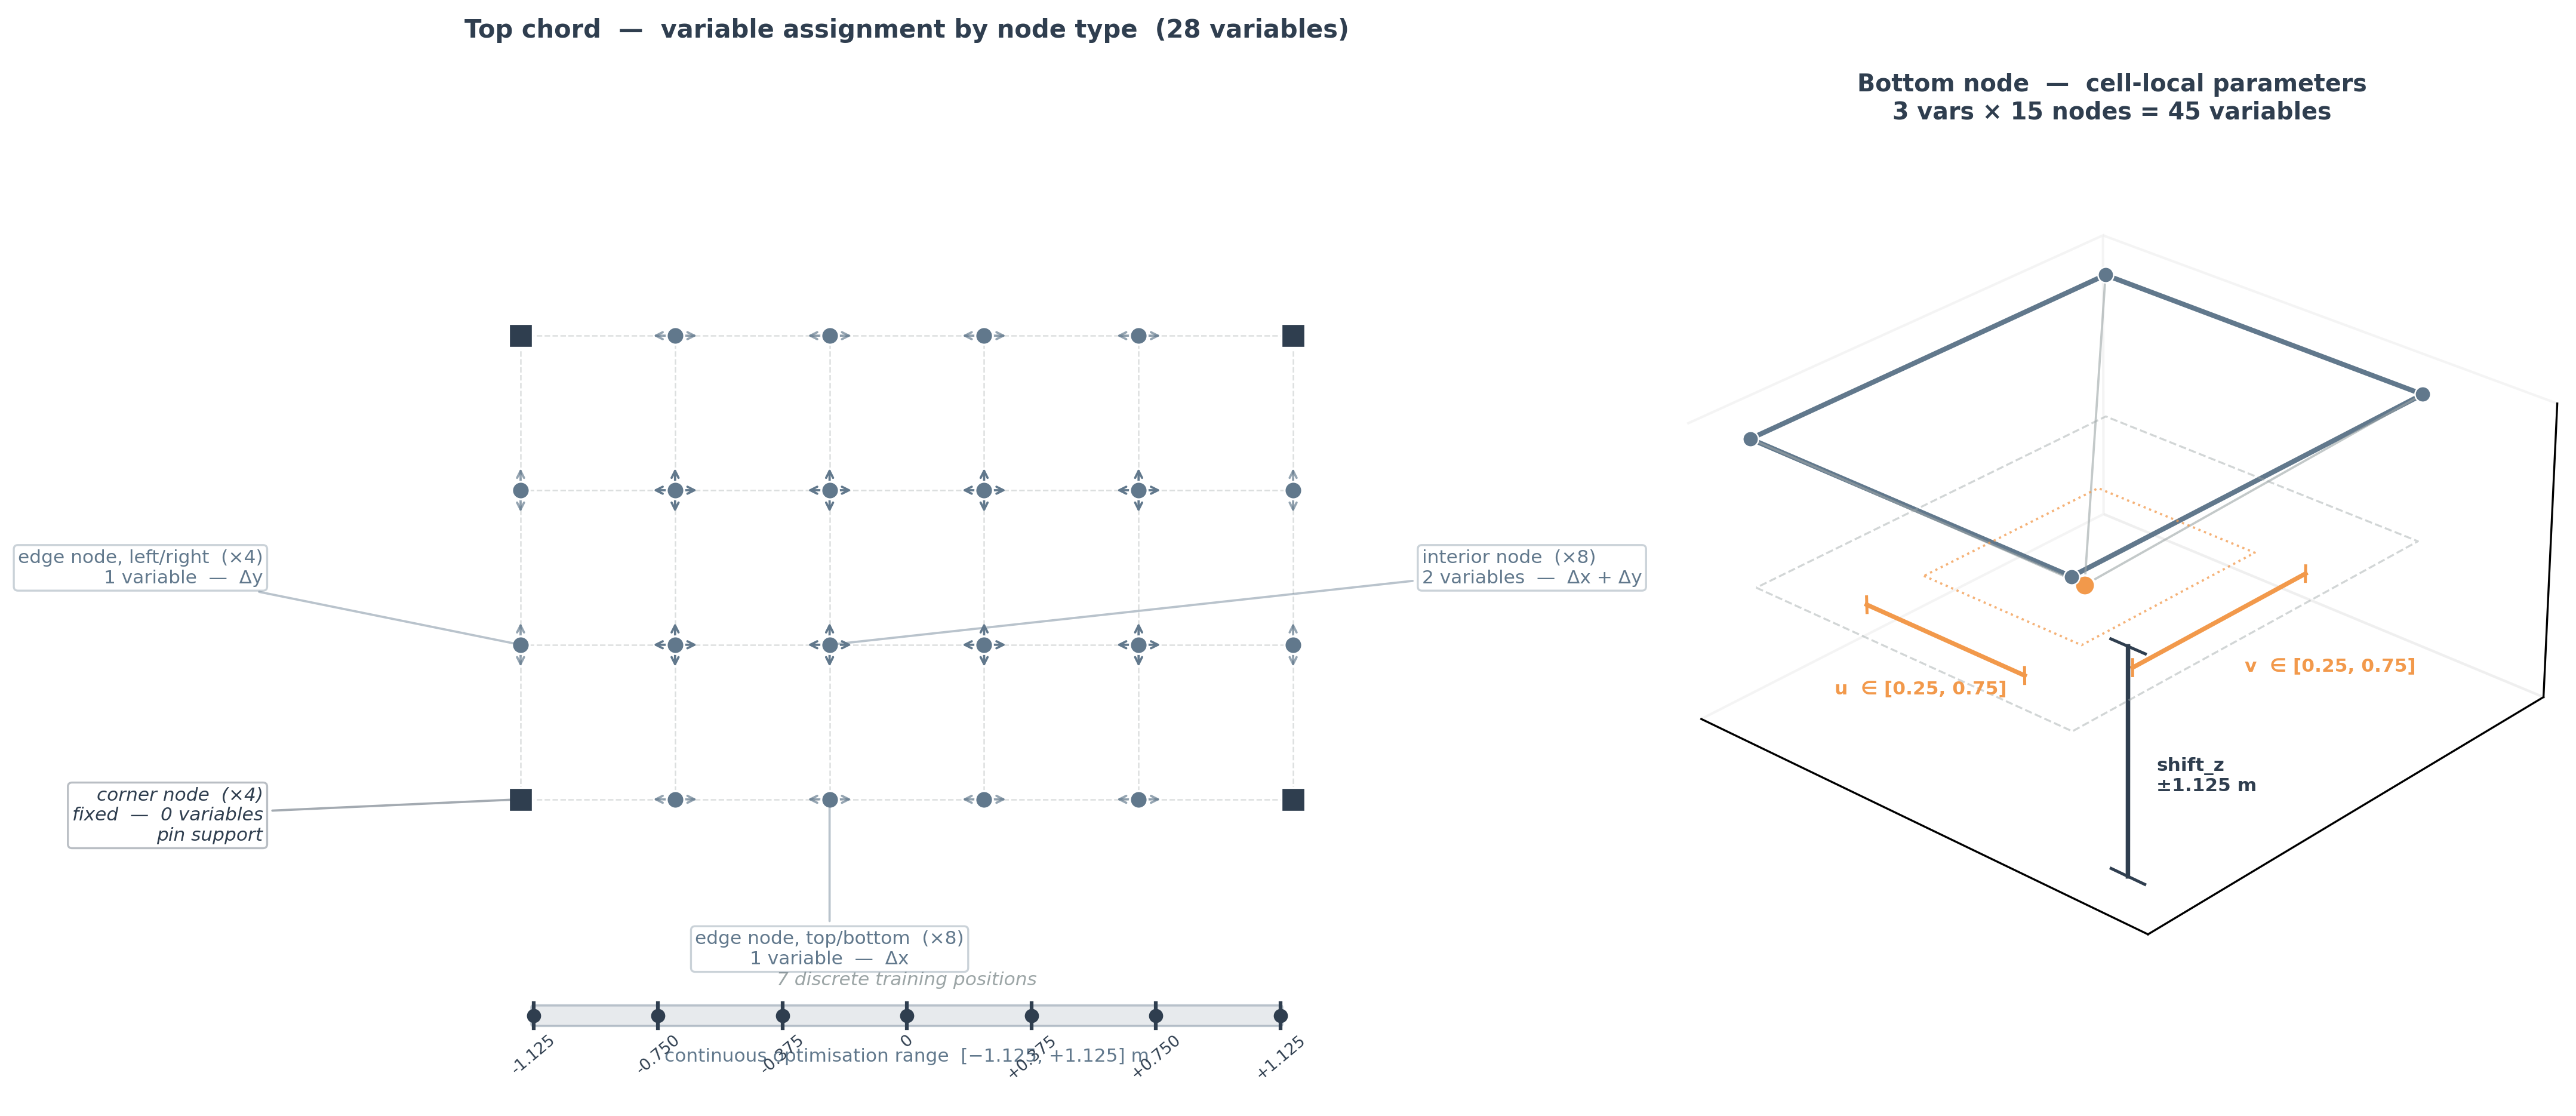
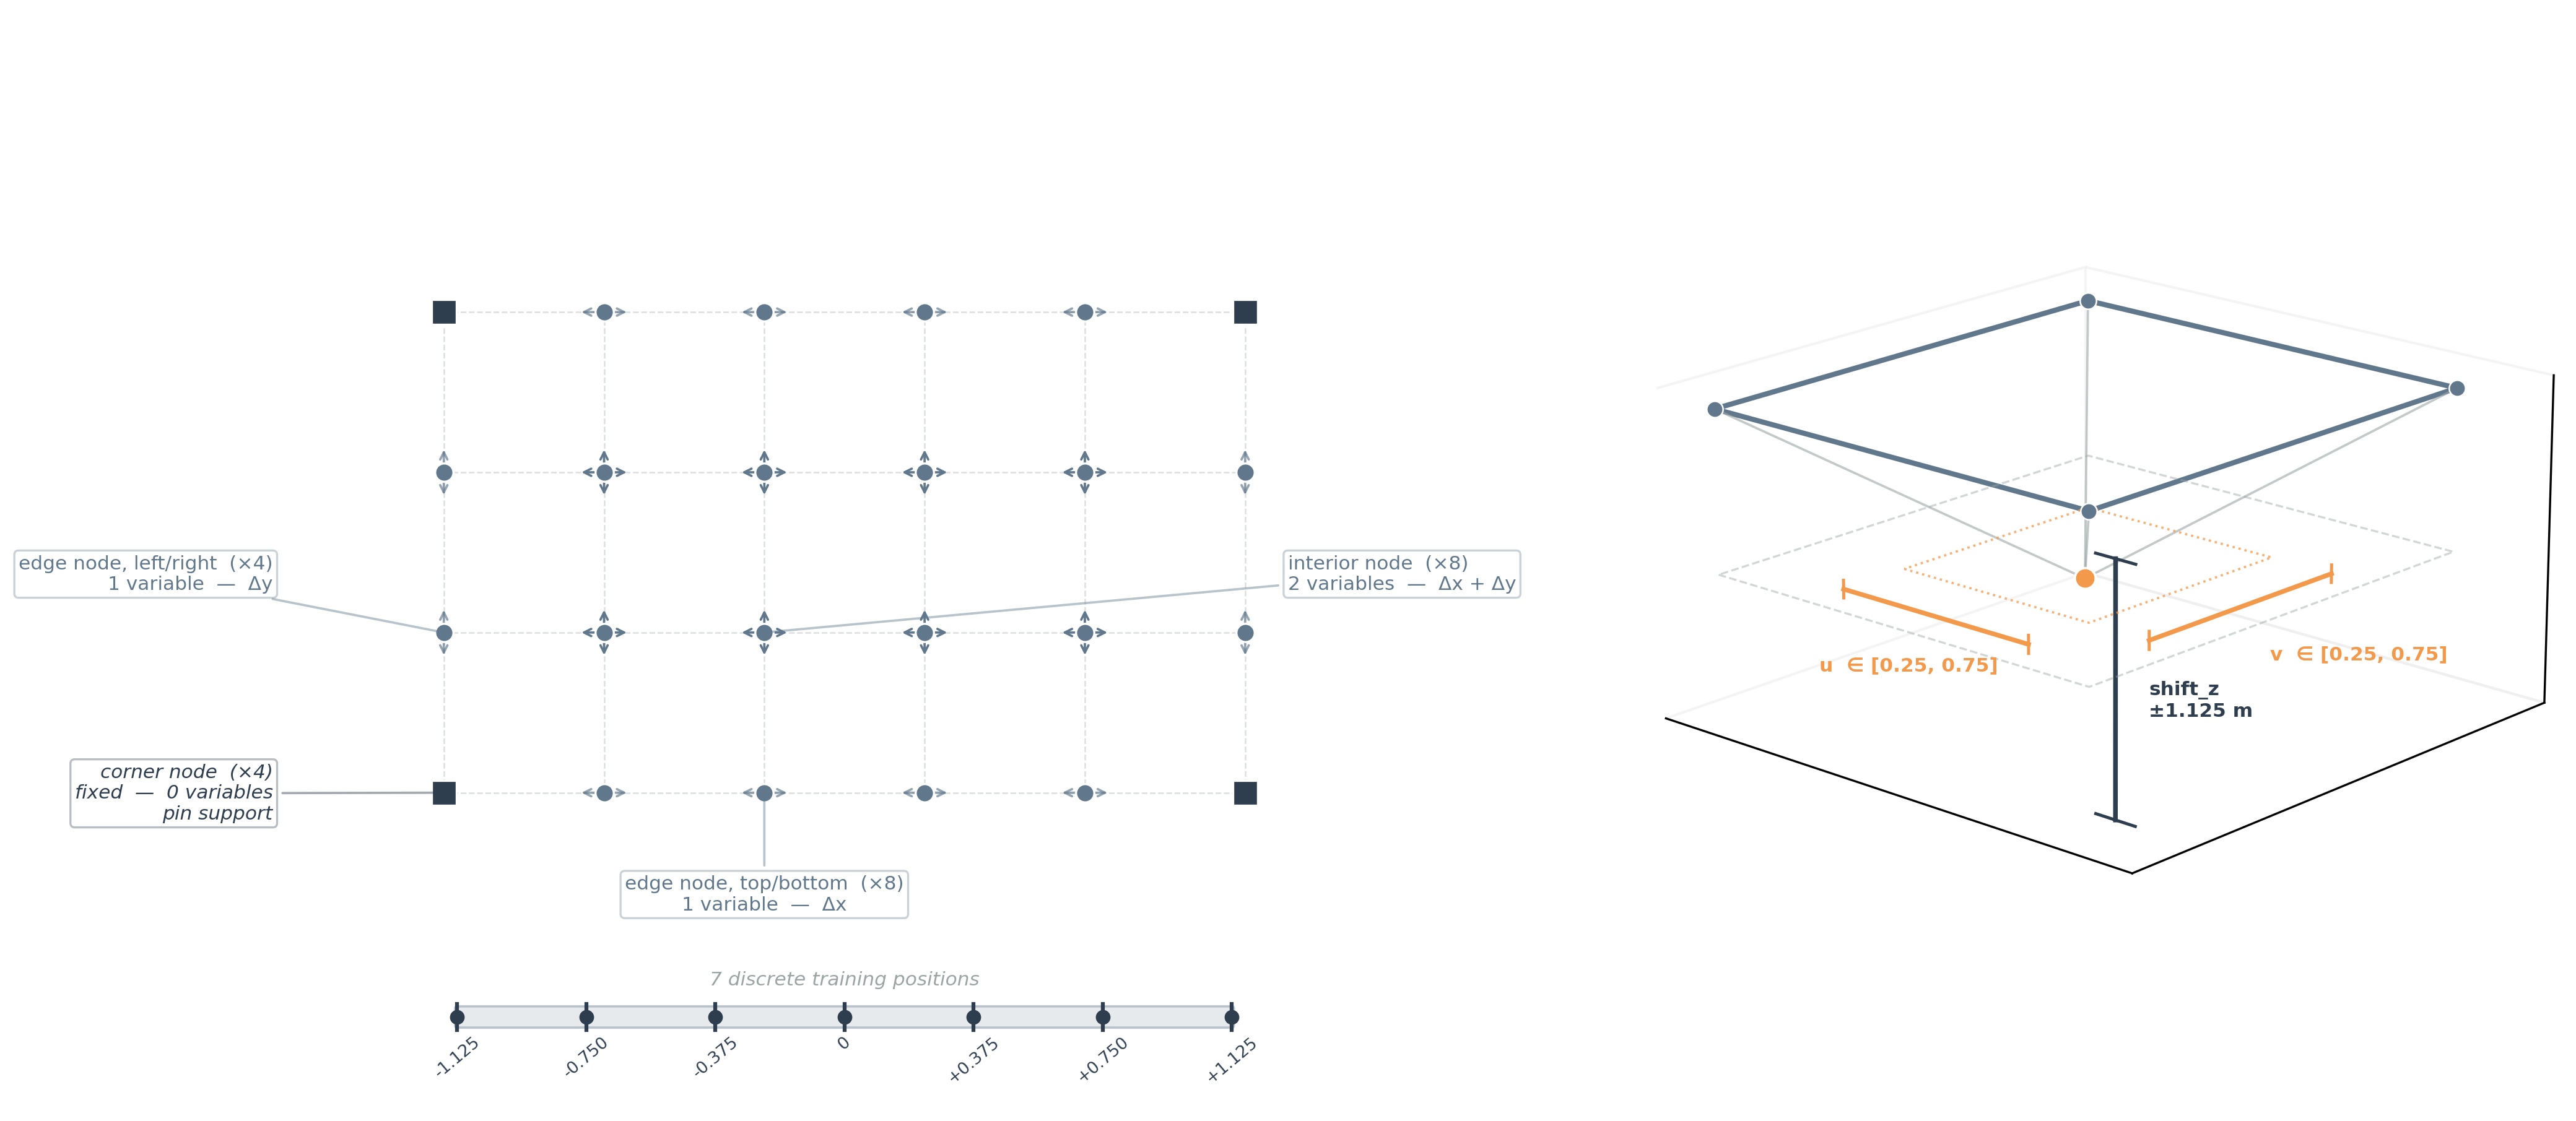
herres

diff --git a/figures/gen_gnn_figures.py b/figures/gen_gnn_figures.py
@@ -1,0 +1,156 @@
+"""Generate GNN feature-table and normalisation-pipeline figures (ch 4.7)."""
+import sys
+import matplotlib
+matplotlib.use("Agg")
+import matplotlib.pyplot as plt
+import matplotlib.patches as mpatches
+from pathlib import Path
+
+ROOT_DIR = Path(__file__).resolve().parent.parent
+if str(ROOT_DIR) not in sys.path:
+    sys.path.append(str(ROOT_DIR))
+
+from config import FIG_PDF_DIR, FIG_PNG_DIR, PLOT_COLORS
+
+matplotlib.rcParams.update({
+    "font.family":      "sans-serif",
+    "font.sans-serif":  ["Arial", "Helvetica Neue", "DejaVu Sans"],
+    "font.size":        8.5,
+    "mathtext.fontset": "dejavusans",
+    "figure.dpi":       150,
+})
+
+# ── palette ───────────────────────────────────────────────────────────────────
+# Row background tints derived from PLOT_COLORS roles
+C_GEO  = "#D6E8F0"   # primary-tinted  – geometry-derived
+C_BC   = "#D5EDE0"   # teal-tinted     – boundary condition
+C_LOAD = "#FEF3E2"   # accent-tinted   – applied load
+C_STK  = "#F9E8E2"   # danger-tinted   – stock property
+C_HEAD = PLOT_COLORS["neutral"]          # #D7D9D9 – header row
+
+C_DARK = PLOT_COLORS["extra_colors"]["deep_navy"]   # #2F3E4F – text / boxes
+
+# ── feature data ──────────────────────────────────────────────────────────────
+node_rows = [
+    ["$x$",   "m",  "Joint $x$-coordinate",          "geom", C_GEO],
+    ["$y$",   "m",  "Joint $y$-coordinate",          "geom", C_GEO],
+    ["$z$",   "m",  "Joint $z$-coordinate",          "geom", C_GEO],
+    ["$T_x$", "—", "Fixed-DOF flag, translate $x$", "BC",   C_BC],
+    ["$T_y$", "—", "Fixed-DOF flag, translate $y$", "BC",   C_BC],
+    ["$T_z$", "—", "Fixed-DOF flag, translate $z$", "BC",   C_BC],
+    ["$R_x$", "—", "Fixed-DOF flag, rotate $x$",    "BC",   C_BC],
+    ["$R_y$", "—", "Fixed-DOF flag, rotate $y$",    "BC",   C_BC],
+    ["$R_z$", "—", "Fixed-DOF flag, rotate $z$",    "BC",   C_BC],
+    ["$F_z$", "N", "Nodal load (tributary area)",   "load", C_LOAD],
+]
+
+edge_rows = [
+    ["$b$",           "m",          "Section width",                   "stock", C_STK],
+    ["$h$",           "m",          "Section depth",                   "stock", C_STK],
+    ["$L$",           "m",          "Installed member length",         "geom",  C_GEO],
+    ["$E$",           "N m$^{-2}$", "Elastic modulus",                 "stock", C_STK],
+    ["$I_y$",         "m$^{4}$",    "2nd moment of area ($y$-axis)",   "stock", C_STK],
+    ["$I_z$",         "m$^{4}$",    "2nd moment of area ($z$-axis)",   "stock", C_STK],
+    ["$J$",           "m$^{4}$",    "Torsional constant (St. Venant)", "stock", C_STK],
+    ["$EA/L$",        "N m$^{-1}$", "Axial stiffness",                 "geom",  C_GEO],
+    ["$N_{\\rm EA}$", "N",          "Mean-EA axial force estimate",    "geom",  C_GEO],
+]
+
+HEADERS = ["Symbol", "Unit", "Description", "Source"]
+COL_W   = [0.10, 0.13, 0.57, 0.14]
+
+
+def _make_table(ax, rows, subtitle):
+    ax.axis("off")
+    tbl = ax.table(
+        cellText=  [[r[0], r[1], r[2], r[3]] for r in rows],
+        colLabels=HEADERS,
+        cellColours=[[r[4]] * 4 for r in rows],
+        colColours=[C_HEAD] * 4,
+        loc="center",
+        cellLoc="left",
+    )
+    tbl.auto_set_font_size(False)
+    tbl.set_fontsize(8.5)
+    tbl.scale(1, 1.55)
+    for (row, col), cell in tbl.get_celld().items():
+        cell.set_linewidth(0.35)
+        cell.set_edgecolor("#CCCCCC")
+        cell.PAD = 0.06
+        cell.set_width(COL_W[col])
+        if row == 0:
+            cell.set_text_props(fontweight="bold", color="#222222")
+    ax.set_title(subtitle, fontsize=9, fontweight="bold", color="#222222",
+                 pad=5, loc="left")
+
+
+# ── FIGURE 1: feature table ───────────────────────────────────────────────────
+fig1, (ax_n, ax_e) = plt.subplots(1, 2, figsize=(13.5, 4.8))
+fig1.subplots_adjust(left=0.01, right=0.99, top=0.93, bottom=0.09, wspace=0.06)
+
+_make_table(ax_n, node_rows, "Node features  (d = 10)")
+_make_table(ax_e, edge_rows, "Edge features  (d = 9)")
+
+fig1.add_artist(matplotlib.lines.Line2D(
+    [0.505, 0.505], [0.05, 0.97],
+    transform=fig1.transFigure, color="#CCCCCC", linewidth=0.8,
+))
+fig1.legend(
+    handles=[
+        mpatches.Patch(fc=C_GEO,  ec="#BBBBBB", lw=0.5, label="geometry-derived"),
+        mpatches.Patch(fc=C_BC,   ec="#BBBBBB", lw=0.5, label="boundary condition"),
+        mpatches.Patch(fc=C_LOAD, ec="#BBBBBB", lw=0.5, label="applied load"),
+        mpatches.Patch(fc=C_STK,  ec="#BBBBBB", lw=0.5, label="stock property"),
+    ],
+    loc="lower center", ncol=4, fontsize=7.5, frameon=False,
+    bbox_to_anchor=(0.5, 0.005),
+)
+
+fig1.savefig(FIG_PDF_DIR / "fig_gnn_feature_table.pdf", bbox_inches="tight")
+fig1.savefig(FIG_PNG_DIR / "fig_gnn_feature_table.png", bbox_inches="tight", dpi=300)
+print("saved fig_gnn_feature_table")
+
+# ── FIGURE 2: normalisation pipeline ─────────────────────────────────────────
+fig2, ax = plt.subplots(figsize=(8, 2.0))
+ax.set_xlim(0, 10)
+ax.set_ylim(0, 3.2)
+ax.axis("off")
+
+BOX_KW   = dict(boxstyle="round,pad=0.5", facecolor="#F5F7FA",
+                edgecolor=C_DARK, linewidth=0.9)
+ARROW_KW = dict(arrowstyle="-|>", color=C_DARK, lw=1.1, mutation_scale=11)
+
+box_specs = [
+    (1.5,  1.9, "raw features\n$\\mathbf{x} \\in \\mathbb{R}^{n \\times d}$"),
+    (5.0,  1.9, "$z = (x - \\mu)\\;/\\;\\sigma$"),
+    (8.5,  1.9, "$\\hat{x} = \\mathrm{clip}(z,\\;{-5},\\;{+5})$"),
+]
+for cx, cy, lbl in box_specs:
+    ax.text(cx, cy, lbl, ha="center", va="center",
+            fontsize=10, linespacing=1.6, bbox=BOX_KW)
+
+for x0, x1 in [(2.75, 3.45), (6.55, 7.25)]:
+    ax.annotate("", xy=(x1, 1.9), xytext=(x0, 1.9), arrowprops=ARROW_KW)
+
+ax.text(4.0,  2.2,  "standardise", ha="center", fontsize=7.5, color="#777777")
+ax.text(6.9,  2.2,  "clip",        ha="center", fontsize=7.5, color="#777777")
+
+ax.text(5.0, 3.05,
+        r"$\mu,\;\sigma$ from training set — stored in model checkpoint",
+        ha="center", va="center", fontsize=7.5, color="#888888", style="italic")
+
+example = [
+    (1.5,  "$EA/L = 8.2\\times10^{6}$"),
+    (5.0,  "$z = 1.73$"),
+    (8.5,  "$\\hat{x} = 1.73$"),
+]
+for ex_x, ex_txt in example:
+    ax.text(ex_x, 0.55, ex_txt, ha="center", va="center",
+            fontsize=7.5, color="#999999", style="italic")
+    ax.annotate("", xy=(ex_x, 1.2), xytext=(ex_x, 0.85),
+                arrowprops=dict(arrowstyle="-|>", color="#CCCCCC",
+                                lw=0.7, mutation_scale=7))
+
+fig2.savefig(FIG_PDF_DIR / "fig_gnn_norm_pipeline.pdf", bbox_inches="tight")
+fig2.savefig(FIG_PNG_DIR / "fig_gnn_norm_pipeline.png", bbox_inches="tight", dpi=300)
+print("saved fig_gnn_norm_pipeline")

diff --git a/figures/fig_gnn_inference.py b/figures/fig_gnn_inference.py
@@ -1,0 +1,135 @@
+"""
+GNN inference figures (ch 4.7.4):
+  fig_gnn_failure_prob_hist  – histogram of per-member failure probabilities
+  fig_gnn_omega_schedule     – ω₄ linear ramp + mean feasibility score
+"""
+import sys
+import matplotlib
+matplotlib.use("Agg")
+import matplotlib.pyplot as plt
+import matplotlib.ticker as mticker
+import numpy as np
+import pandas as pd
+from pathlib import Path
+
+ROOT_DIR = Path(__file__).resolve().parent.parent
+if str(ROOT_DIR) not in sys.path:
+    sys.path.append(str(ROOT_DIR))
+
+from config import FIG_PDF_DIR, FIG_PNG_DIR, PLOT_COLORS
+
+matplotlib.rcParams.update({
+    "font.family":       "sans-serif",
+    "font.sans-serif":   ["Arial", "Helvetica Neue", "DejaVu Sans"],
+    "font.size":         9,
+    "mathtext.fontset":  "dejavusans",
+    "figure.dpi":        150,
+    "axes.spines.top":   False,
+    "axes.spines.right": False,
+})
+
+# ── colours ───────────────────────────────────────────────────────────────────
+C_PRIMARY  = PLOT_COLORS["primary"]    # #61788C – safe bars, feasibility line
+C_DANGER   = PLOT_COLORS["danger"]     # #D9653B – unsafe bars, ω₄ line
+C_ACCENT   = PLOT_COLORS["accent"]     # #F2994B – threshold line
+C_NEUTRAL  = PLOT_COLORS["neutral"]    # #D7D9D9 – annotation box border
+C_DARK     = PLOT_COLORS["extra_colors"]["deep_navy"]   # #2F3E4F – axis labels
+
+# ── data paths ────────────────────────────────────────────────────────────────
+DATA_ROOT = Path(
+    r"c:\Users\jaspe\OneDrive\06 Building Technology TU\2.2 - 2.4\60_Research_Exports"
+)
+PROBS_CSV   = DATA_ROOT / "02_surrogate_model_data" / \
+    "ID20260512_193129_LR3e-04_EP150_BS32_FA0.50_ROC0.894" / "test_probs.csv"
+HISTORY_CSV = DATA_ROOT / "03_ga_data" / \
+    "GA_FINAL_BATCH_3PerStock_20260526_GEN250_EVAL_7500" / \
+    "GA_A_20260520_214255_RUN1_GEN250_EVAL7500_F-0_4778" / \
+    "GA_A_20260520_214255_RUN1_GEN250_EVAL7500_F-0_4778_history.csv"
+
+THETA = 0.35
+
+# ── load data ─────────────────────────────────────────────────────────────────
+_raw    = pd.read_csv(PROBS_CSV, header=None).iloc[:, 0].values
+p       = _raw[0:120]           # 120 per-member probabilities, first design
+hist_df = pd.read_csv(HISTORY_CSV)
+
+# ── FIGURE 1: failure-probability histogram ───────────────────────────────────
+fig1, ax = plt.subplots(figsize=(6.5, 3.2))
+
+bins           = np.linspace(0, 1, 21)
+counts, edges  = np.histogram(p, bins=bins)
+
+for cnt, left, right in zip(counts, edges[:-1], edges[1:]):
+    mid    = (left + right) / 2
+    unsafe = mid >= THETA
+    ax.bar(mid, cnt, width=(right - left) * 0.88,
+           color=C_ACCENT  if unsafe else C_PRIMARY,
+           edgecolor=C_DARK, linewidth=0.5, alpha=0.45 if unsafe else 0.45)
+
+ax.axvline(THETA, color=C_DANGER, lw=1.4, linestyle="--", zorder=5)
+ax.text(THETA + 0.015, 0.96, f"$\\theta = {THETA}$",
+        transform=ax.get_xaxis_transform(), va="top",
+        fontsize=8.5, color=C_DANGER)
+
+f_score  = 1 - p.mean()
+n_unsafe = int((p >= THETA).sum())
+stats_txt = (f"$\\bar{{p}} = {p.mean():.3f}$\n"
+             f"$f = {f_score:.3f}$\n"
+             f"unsafe: {n_unsafe}/120")
+ax.text(0.97, 0.97, stats_txt, transform=ax.transAxes,
+        ha="right", va="top", fontsize=8,
+        bbox=dict(boxstyle="round,pad=0.4", fc="white", ec=C_NEUTRAL, lw=0.7))
+
+ax.set_xlabel("predicted failure probability  $p_i$", labelpad=6)
+ax.set_ylabel("member count")
+ax.set_xlim(0, 1)
+ax.xaxis.set_major_locator(mticker.MultipleLocator(0.1))
+ax.yaxis.set_major_locator(mticker.MaxNLocator(integer=True))
+
+fig1.tight_layout()
+fig1.savefig(FIG_PDF_DIR / "fig_gnn_failure_prob_hist.pdf", bbox_inches="tight")
+fig1.savefig(FIG_PNG_DIR / "fig_gnn_failure_prob_hist.png", bbox_inches="tight", dpi=300)
+print("saved fig_gnn_failure_prob_hist")
+
+# ── FIGURE 2: ω₄ schedule + mean feasibility ─────────────────────────────────
+fig2, ax1 = plt.subplots(figsize=(6.5, 3.2))
+ax2 = ax1.twinx()
+
+gen = hist_df["generation"].values
+w   = hist_df["w_structural"].values
+gnn = hist_df["mean_gnn"].values
+
+l1, = ax1.plot(gen, w,   color=C_DANGER, lw=1.5,              label="$\\omega_4$")
+l2, = ax2.plot(gen, gnn, color=C_PRIMARY,  lw=1.5, ls="--",
+               label="mean feasibility $f$")
+
+ax1.annotate(f"$\\omega_4 = {w[0]:.1f}$",
+             xy=(gen[0], w[0]), xytext=(18, 4),
+             textcoords="offset points", fontsize=8, color=C_DANGER)
+ax1.annotate(f"$\\omega_4 = {w[-1]:.1f}$",
+             xy=(gen[-1], w[-1]), xytext=(-60, -4),
+             textcoords="offset points", fontsize=8, color=C_DANGER)
+
+ax1.set_xlabel("generation")
+ax1.set_ylabel("$\\omega_4$  (structural weight)", color=C_DANGER)
+ax2.set_ylabel("mean feasibility score  $f$",      color=C_PRIMARY)
+
+ax1.tick_params(axis="y", colors=C_DANGER)
+ax2.tick_params(axis="y", colors=C_PRIMARY)
+ax2.spines["right"].set_visible(True)
+ax2.spines["top"].set_visible(False)
+ax1.spines["top"].set_visible(False)
+
+ax1.set_xlim(1, 250)
+ax1.set_ylim(0.6, 2.2)
+ax2.set_ylim(0.45, 0.85)
+
+lines  = [l1, l2]
+labels = [l.get_label() for l in lines]
+ax1.legend(lines, labels, loc="center right", fontsize=8.5,
+           frameon=True, framealpha=0.9, edgecolor=C_NEUTRAL)
+
+fig2.tight_layout()
+fig2.savefig(FIG_PDF_DIR / "fig_gnn_omega_schedule.pdf", bbox_inches="tight")
+fig2.savefig(FIG_PNG_DIR / "fig_gnn_omega_schedule.png", bbox_inches="tight", dpi=300)
+print("saved fig_gnn_omega_schedule")

diff --git a/figures/fig_search_space.py b/figures/fig_search_space.py
@@ -52,8 +52,6 @@ ax2d.set_xlim(-5.5, 20.5)
 ax2d.set_ylim(-5.8, 14.5)
 ax2d.set_aspect("equal")
 ax2d.axis("off")
-ax2d.set_title("Top chord  —  variable assignment by node type  (28 variables)",
-               fontsize=10, fontweight="bold", color=C_DARK, pad=6)
 
 
 def node_type(ix, iy):
@@ -109,7 +107,7 @@ BOX_KW = lambda col: dict(boxstyle="round,pad=0.22", fc=BG, ec=col + "55", lw=0.
 # Corner (0, 0)
 ax2d.annotate(
     "corner node  (×4)\nfixed  —  0 variables\npin support",
-    xy=(0, 0), xytext=(-5.0, -0.8),
+    xy=(0, 0), xytext=(-3.2, -0.5),
     fontsize=7.5, color=C_DARK, ha="right", style="italic",
     arrowprops=dict(arrowstyle="-", color=C_DARK + "70", lw=0.9),
     bbox=BOX_KW(C_DARK), **ANN_KW)
@@ -117,7 +115,7 @@ ax2d.annotate(
 # Edge left/right (0, 1) — Y shift
 ax2d.annotate(
     "edge node, left/right  (×4)\n1 variable  —  Δy",
-    xy=(0, CW), xytext=(-5.0, CW + 1.2),
+    xy=(0, CW), xytext=(-3.2, CW + 0.8),
     fontsize=7.5, color=C_NS, ha="right",
     arrowprops=dict(arrowstyle="-", color=C_NS + "70", lw=0.9),
     bbox=BOX_KW(C_NS), **ANN_KW)
@@ -125,7 +123,7 @@ ax2d.annotate(
 # Edge top/bottom (2, 0) — X shift
 ax2d.annotate(
     "edge node, top/bottom  (×8)\n1 variable  —  Δx",
-    xy=(2*CW, 0), xytext=(2*CW, -3.2),
+    xy=(2*CW, 0), xytext=(2*CW, -2.2),
     fontsize=7.5, color=C_NS, ha="center",
     arrowprops=dict(arrowstyle="-", color=C_NS + "70", lw=0.9),
     bbox=BOX_KW(C_NS), **ANN_KW)
@@ -133,7 +131,7 @@ ax2d.annotate(
 # Interior (2, 1) — XY shifts
 ax2d.annotate(
     "interior node  (×8)\n2 variables  —  Δx + Δy",
-    xy=(2*CW, CW), xytext=(17.5, CW + 1.2),
+    xy=(2*CW, CW), xytext=(15.8, CW + 0.8),
     fontsize=7.5, color=C_NS, ha="left",
     arrowprops=dict(arrowstyle="-", color=C_NS + "70", lw=0.9),
     bbox=BOX_KW(C_NS), **ANN_KW)
@@ -156,9 +154,6 @@ ax2d.add_patch(FancyBboxPatch(
 ax2d.text(RULER_CX, RULER_Y + 0.52,
           "7 discrete training positions",
           ha="center", va="bottom", fontsize=7.5, color=C_MUTED, style="italic")
-ax2d.text(RULER_CX, RULER_Y - 0.62,
-          "continuous optimisation range  [−1.125, +1.125] m",
-          ha="center", va="top", fontsize=7.5, color=C_NS)
 
 ax2d.scatter(step_x, [RULER_Y]*7, s=22, color=C_DARK, zorder=4)
 for sx, sv in zip(step_x, STEPS):
@@ -233,7 +228,7 @@ ax3d.text(U_FAR + 0.22, (V_L+V_H)/2, bz_ex - 0.28,
 
 # shift_z indicator — vertical bracket outside cell at front-right corner
 SZ = 1.125
-SZ_X, SZ_Y = CW + 0.55, -0.05
+SZ_X, SZ_Y = CW + 0.15, +0.05
 ax3d.plot([SZ_X, SZ_X], [SZ_Y, SZ_Y], [bz_ex - SZ, bz_ex + SZ],
           color=C_DARK, lw=1.8)
 ax3d.plot([SZ_X - 0.15, SZ_X + 0.15], [SZ_Y, SZ_Y],
@@ -254,14 +249,11 @@ ib_xs = [U_L, U_H, U_H, U_L, U_L]
 ib_ys = [V_L, V_L, V_H, V_H, V_L]
 ax3d.plot(ib_xs, ib_ys, [bz_ex]*5, color=C_RS, lw=0.9, ls=":", alpha=0.75)
 
-ax3d.view_init(elev=28, azim=-48)
+ax3d.view_init(elev=18, azim=-48)
 ax3d.set_box_aspect([1, 1, 0.55])
 ax3d.set_xticks([]); ax3d.set_yticks([]); ax3d.set_zticks([])
 ax3d.set_xlabel(""); ax3d.set_ylabel(""); ax3d.set_zlabel("")
 ax3d.grid(False)
-ax3d.set_title("Bottom node  —  cell-local parameters\n"
-               "3 vars × 15 nodes = 45 variables",
-               fontsize=9.5, fontweight="bold", color=C_DARK, pad=4)
 
 fig.subplots_adjust(left=0.02, right=0.98, bottom=0.05, top=0.93)
 

diff --git a/figures/fig_training_pipeline.py b/figures/fig_training_pipeline.py
@@ -112,7 +112,7 @@ def arrow_down(x, y_from, y_to, col=C_DARK):
 # ---------------------------------------------------------------------------
 # Title
 # ---------------------------------------------------------------------------
-ax.text(CX, 13.45,
+ax.text(CX, 13.7,
         "Training data generation pipeline  ·  20 000 samples",
         ha="center", va="center", fontsize=10.5,
         fontweight="bold", color=C_DARK, zorder=6)